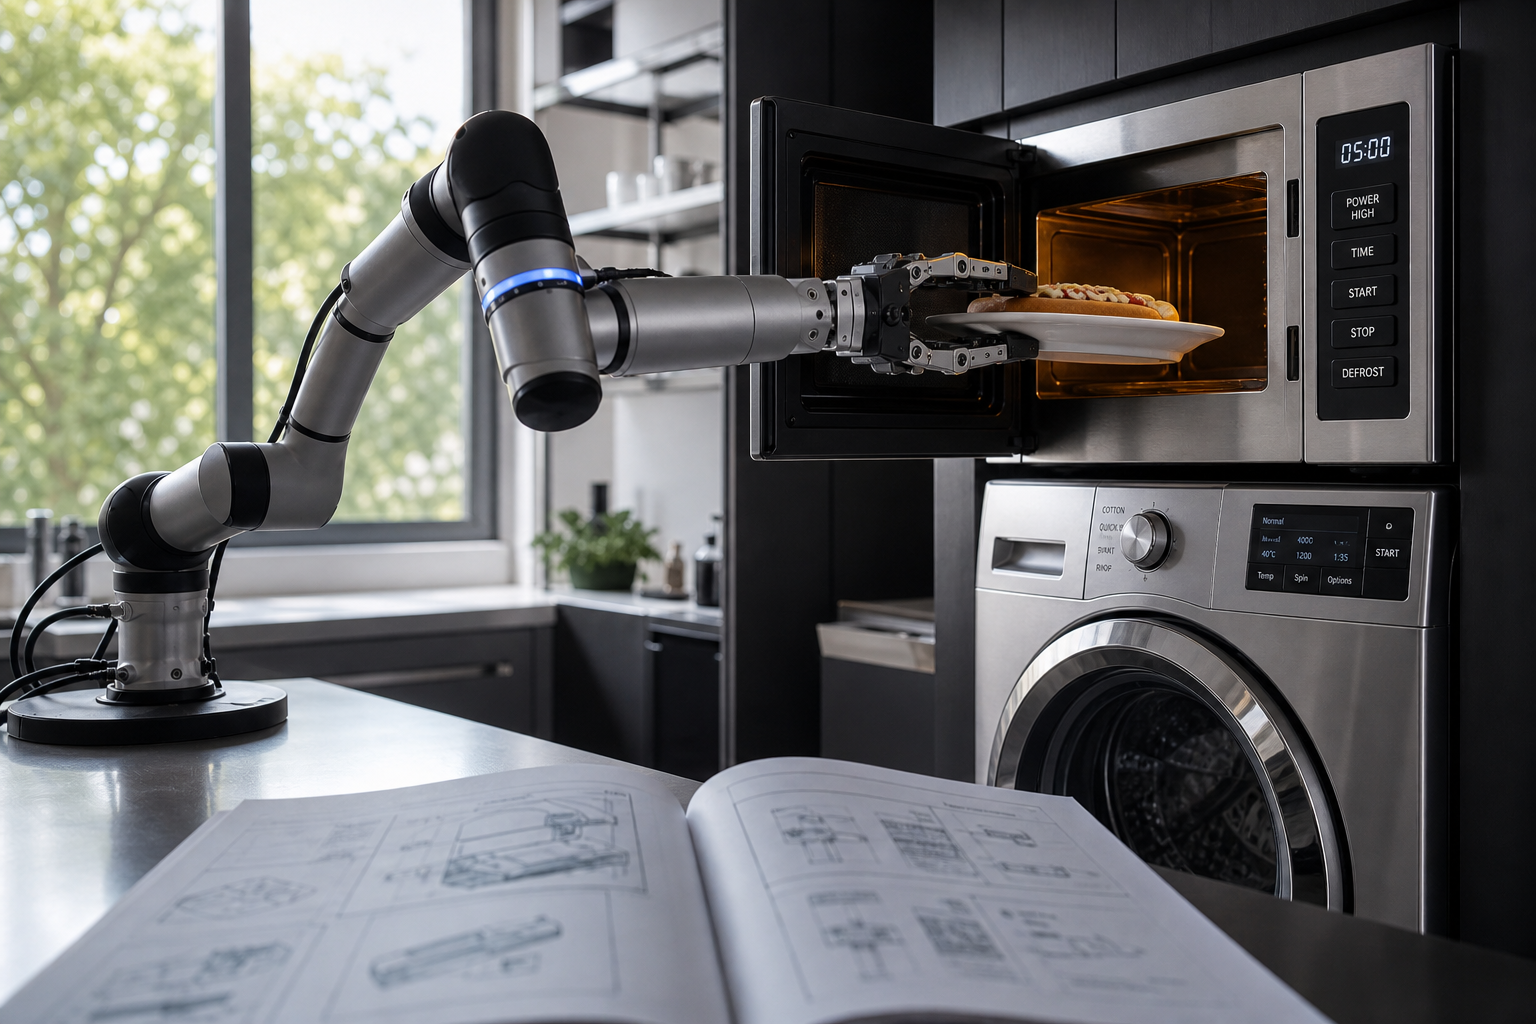
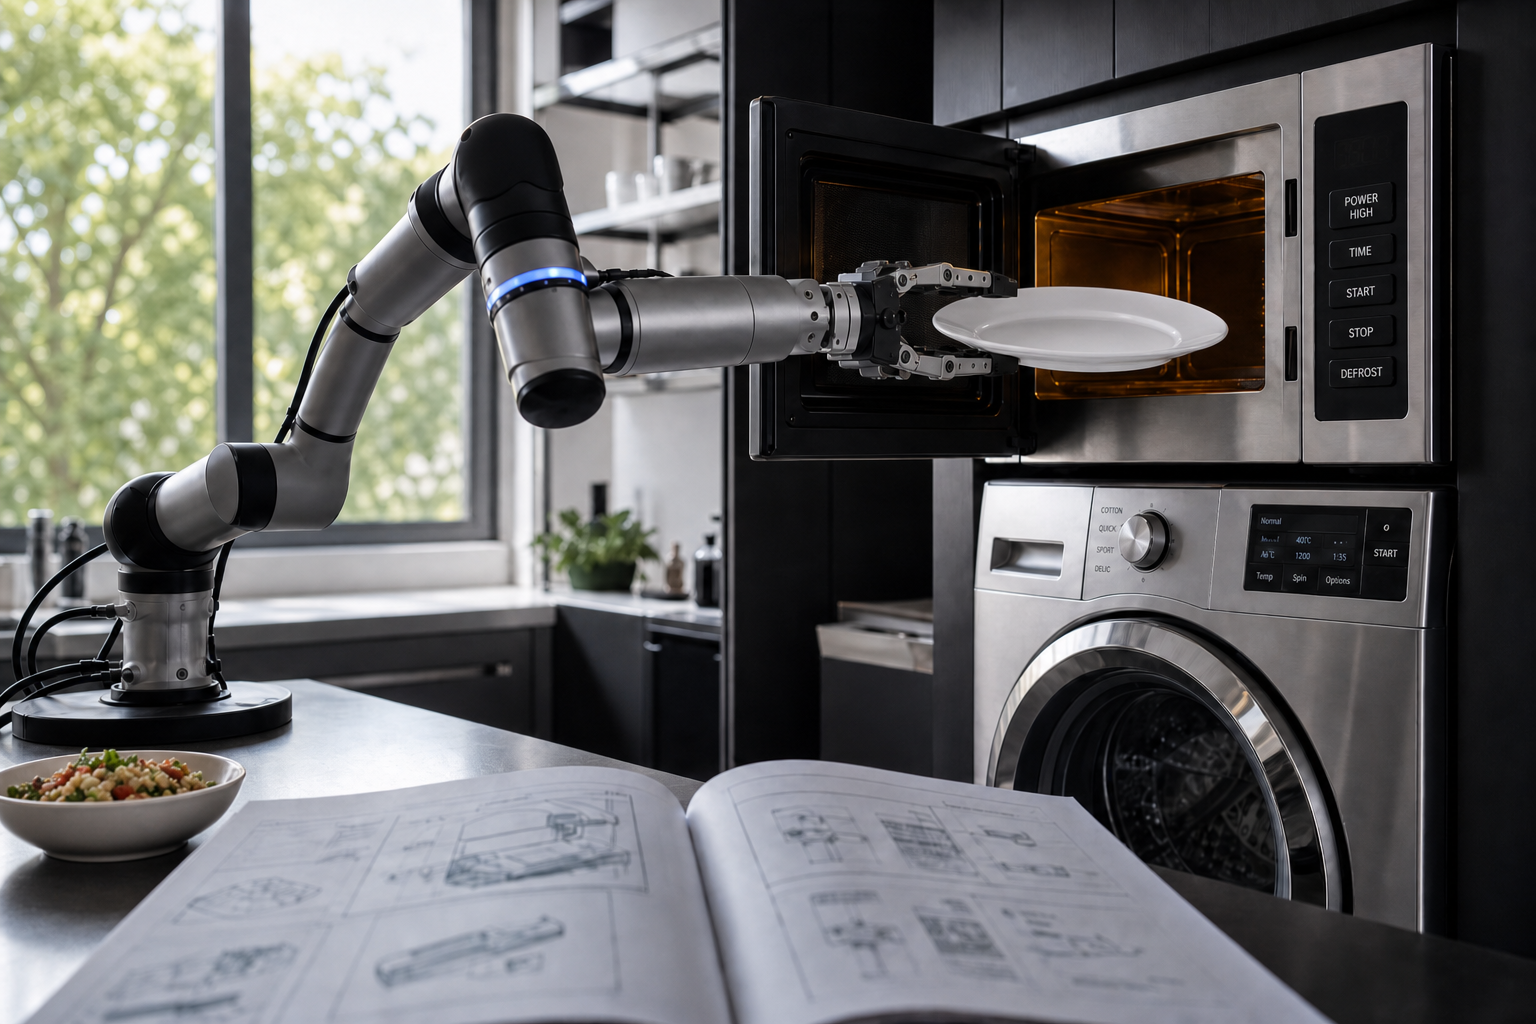
Fix hero gripper grasp and soften paper figure edges.
Move the plate grasp off the food, keep hero backups, and blend white figures into the page gray without heavy frames.

diff --git a/styles.css b/styles.css
@@ -449,12 +449,10 @@ a:hover {
   width: 100%;
   height: auto;
   display: block;
-  background: #ffffff;
-  border: 1px solid rgba(21, 32, 40, 0.1);
-  box-shadow:
-    0 1px 0 rgba(255, 255, 255, 0.8) inset,
-    0 10px 28px rgba(21, 32, 40, 0.08),
-    0 2px 6px rgba(21, 32, 40, 0.04);
+  background: transparent;
+  border: none;
+  box-shadow: none;
+  mix-blend-mode: darken;
 }
 
 .figure figcaption {

diff --git a/index.html b/index.html
@@ -14,7 +14,7 @@
       href="https://fonts.googleapis.com/css2?family=Bricolage+Grotesque:opsz,wght@12..96,500;12..96,700;12..96,800&family=Outfit:wght@340;400;500;600&display=swap"
       rel="stylesheet"
     />
-    <link rel="stylesheet" href="styles.css?v=20260715b" />
+    <link rel="stylesheet" href="styles.css?v=20260715e" />
   </head>
   <body>
     <a class="skip-link" href="#main">Skip to content</a>
@@ -37,7 +37,7 @@
       <section class="hero" aria-label="Project introduction">
         <div class="hero-media" aria-hidden="true">
           <img
-            src="assets/hero-appliance.jpg?v=20260715b"
+            src="assets/hero-appliance.jpg?v=20260715f"
             alt=""
             class="hero-image"
             width="1920"